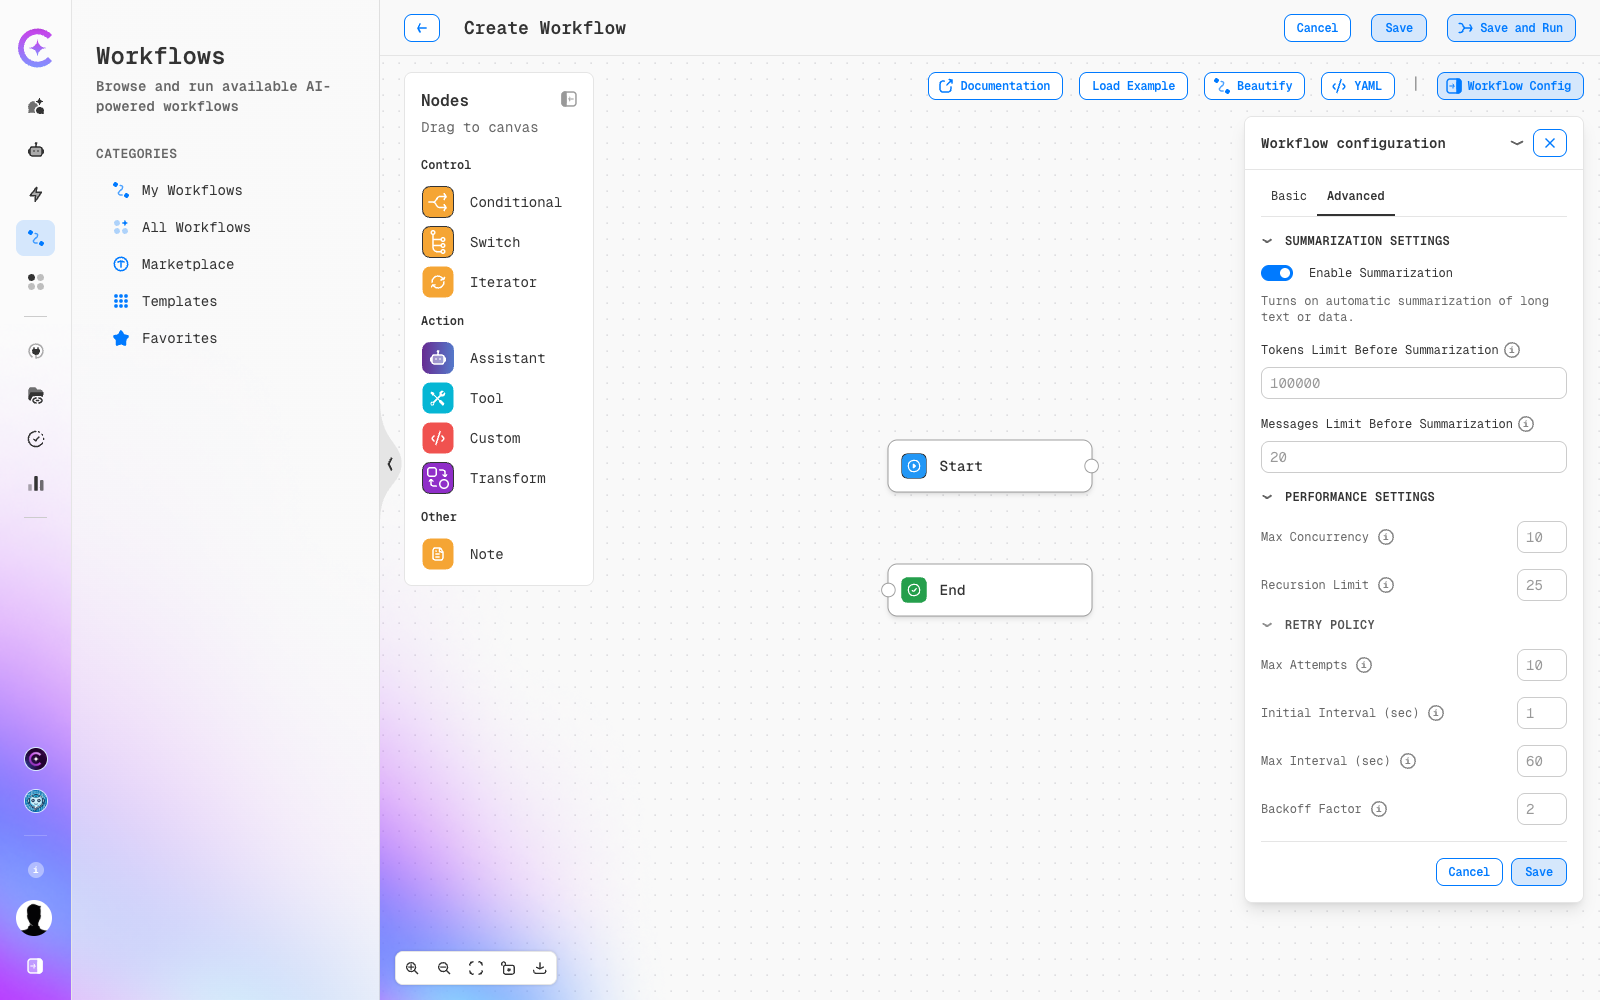
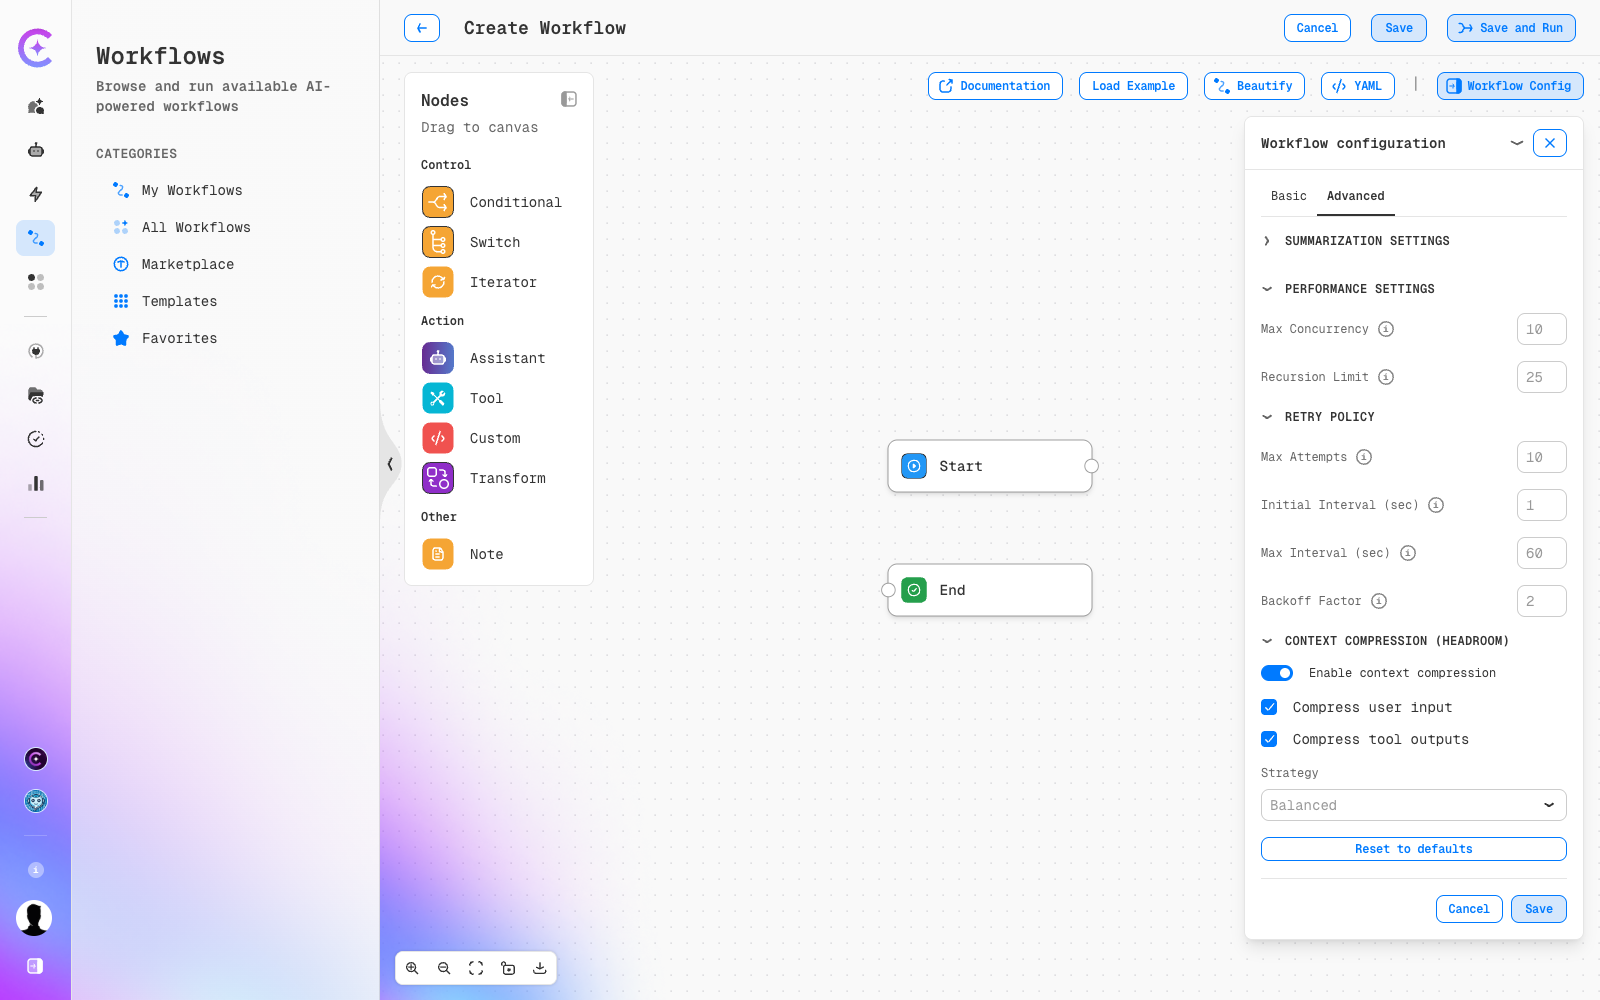
docs(user-guide): align advanced tab and clone project steps with the app
Generated with AI

Changed region(s): [[0.7812, 0.589, 1.0, 0.93], [0.7812, 0.248, 0.9688, 0.558], [0.9375, 0.527, 0.9688, 0.589]]

diff --git a/docs/user-guide/workflows/create-workflow.md b/docs/user-guide/workflows/create-workflow.md
@@ -132,15 +132,14 @@ Categories are managed centrally and shared with assistants. See [Assistant Cate
 
 **Advanced Tab:**
 
-![Advanced tab of the Workflow configuration panel with all sections expanded](./images/visual-editor-advanced-config.png)
+![Advanced tab of the Workflow configuration panel with the Performance, Retry Policy and Context Compression sections expanded](./images/visual-editor-advanced-config.png)
 
-- **Summarization Settings**: The **Enable Summarization** switch, **Tokens Limit Before Summarization** and **Messages Limit Before Summarization**
-- **Performance Settings**: **Max Concurrency** (parallel task execution) and **Recursion Limit**
-- **Retry Policy**: **Max Attempts**, **Initial Interval (sec)**, **Max Interval (sec)** and **Backoff Factor** for failed operations
+- **Summarization Settings**: The **Enable Summarization** switch (on by default), **Tokens Limit Before Summarization** (placeholder 100000) and **Messages Limit Before Summarization** (placeholder 20)
+- **Performance Settings**: **Max Concurrency** (parallel task execution, placeholder 10) and **Recursion Limit** (placeholder 25)
+- **Retry Policy**: **Max Attempts** (placeholder 10), **Initial Interval (sec)** (1), **Max Interval (sec)** (60) and **Backoff Factor** (2) for failed operations
+- **Context Compression (Headroom)**: Compress the context of every assistant node to reduce token usage. It contains the **Enable context compression** switch (off by default), the **Compress user input** and **Compress tool outputs** checkboxes (both selected once compression is enabled), a **Strategy** list (**Lossless**, **Balanced** or **Aggressive**; **Balanced** is shown by default) and a **Reset to defaults** button. Sub-assistants do not inherit this setting. System prompts, assistant replies, attached files and images are not compressed. The section is shown only when Headroom is enabled for the instance. See [Context Compression (Headroom)](../assistants/context-compression.md#set-compression-for-the-whole-workflow)
 
 Each section can be expanded or collapsed. The fields show their default values as placeholders.
-
-- **Context compression (Headroom)**: Compress the context of every assistant node to reduce token usage. Shown only when context compression is enabled for the instance. See [Context Compression (Headroom)](../assistants/context-compression.md#set-compression-for-the-whole-workflow)
 
 :::info Configuration Sync
 Changes made in the Visual Editor are automatically reflected in the YAML configuration, and vice versa. Both views stay synchronized in real-time.

diff --git a/docs/user-guide/workflows/clone-workflow-from-marketplace.md b/docs/user-guide/workflows/clone-workflow-from-marketplace.md
@@ -31,7 +31,7 @@ The **Clone Workflow** editor opens with the original workflow's graph and confi
 ### 3. Configure Clone Settings
 
 1. Click **Workflow Config** in the editor toolbar. The **Workflow configuration** panel opens on the **Basic** tab.
-2. In **Project name**, select the target project from the dropdown. The field is prefilled with the original workflow's project; if it belongs to another user, an "Access denied" message is shown until your own project is selected.
+2. In **Project name**, set the project to your own project by selecting it from the dropdown.
 3. Enter a **Name** for the cloned workflow. The field is empty, so a name is required:
 
    ![Clone Workflow with the Workflow configuration panel](./images/marketplace/clone-workflow-form.png)
